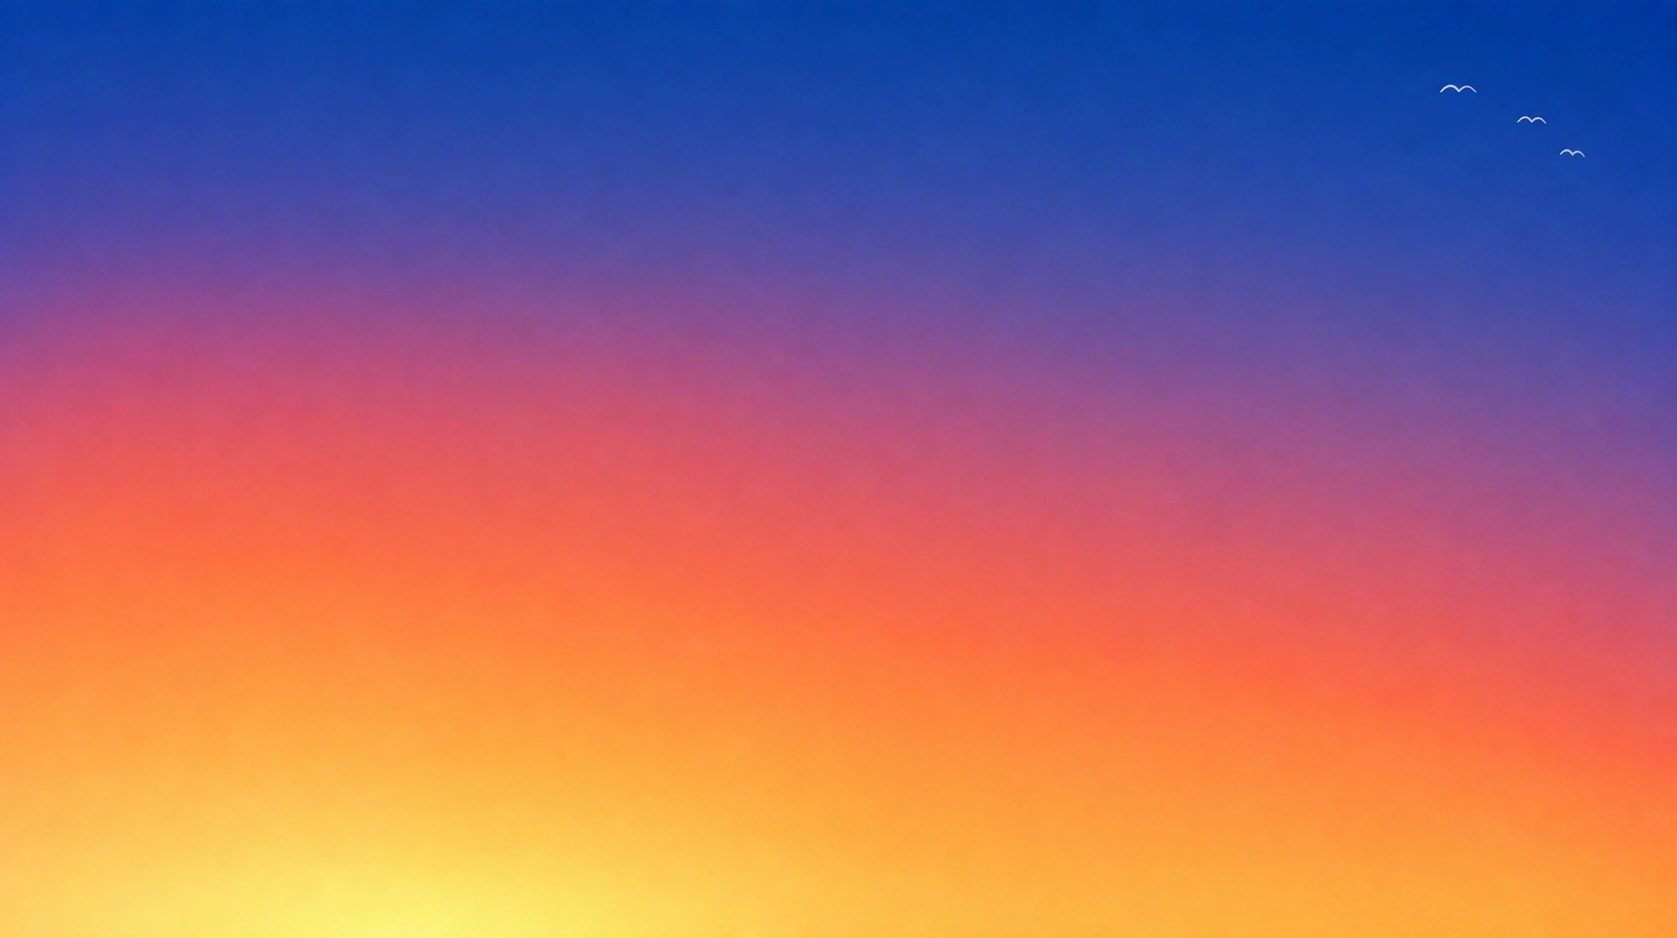
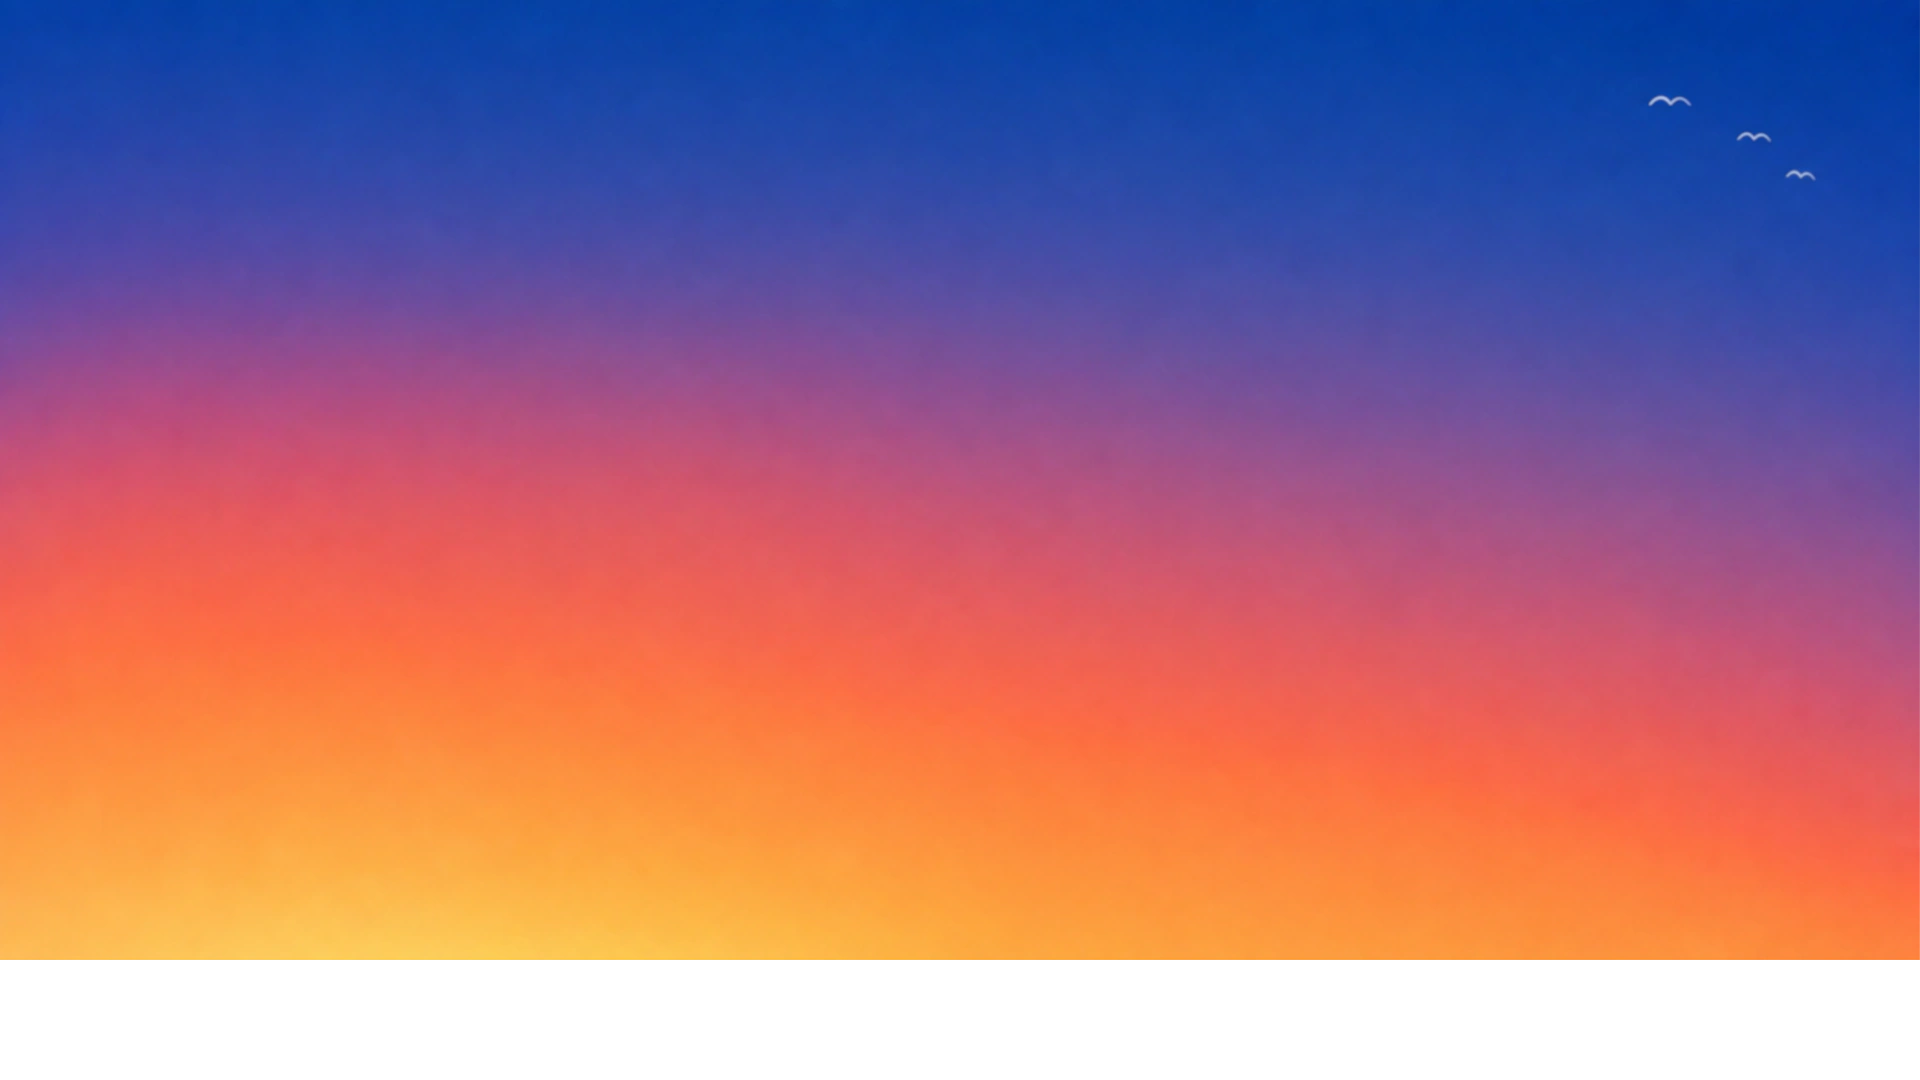
Rediseño al landing page

Changed region(s): [[0.0, 0.8657, 1.0, 1.0]]

diff --git a/src/i18n/ui.ts b/src/i18n/ui.ts
@@ -530,22 +530,35 @@ export function useTranslations(lang: string) {
   };
 }
 
+/** Base path del despliegue ('/compdes2027' en producción, '/' o '' en local sin base). */
+const BASE = (import.meta.env.BASE_URL ?? "").replace(/\/+$/, "");
+
+function stripBase(pathname: string): string {
+  if (!BASE) return pathname;
+  const bare = pathname.startsWith(BASE) ? pathname.slice(BASE.length) : pathname;
+  return bare === "" ? "/" : bare;
+}
+
+function withBase(path: string): string {
+  return BASE ? `${BASE}${path}` : path;
+}
+
 /** Resolve the current locale from a URL path ('/en/...' -> 'en', else 'es'). */
 export function getLangFromUrl(pathname: string): "es" | "en" {
-  return pathname.startsWith("/en") ? "en" : "es";
+  return stripBase(pathname).startsWith("/en") ? "en" : "es";
 }
 
 /**
  * Return the same path in the given language. Works whether the input is the
- * Spanish path (no prefix) or the English path (/en prefix).
+ * Spanish path (no prefix) or the English path (/en prefix), always including
+ * the deployment base (/compdes2027) when one is configured.
  */
 export function localizedUrl(pathname: string, lang: "es" | "en"): string {
-  const p =
-    pathname.length > 1 && pathname.endsWith("/")
-      ? pathname.slice(0, -1)
-      : pathname;
-  const stripped = p.replace(/^\/en(?=\/|$)/, "");
+  const p = stripBase(pathname);
+  const normalized =
+    p.length > 1 && p.endsWith("/") ? p.slice(0, -1) : p;
+  const stripped = normalized.replace(/^\/en(?=\/|$)/, "");
   const esUrl = stripped === "" ? "/" : stripped;
-  if (lang === "es") return esUrl;
-  return esUrl === "/" ? "/en" : `/en${esUrl}`;
+  const out = lang === "es" ? esUrl : esUrl === "/" ? "/en" : `/en${esUrl}`;
+  return withBase(out);
 }
